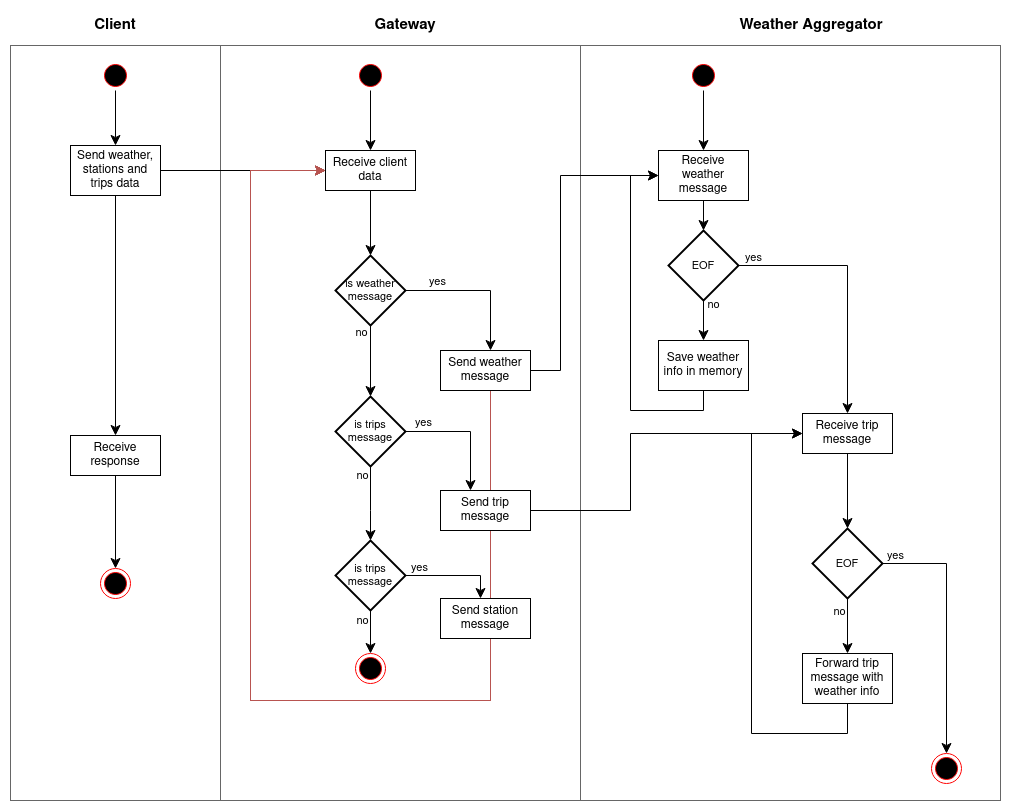
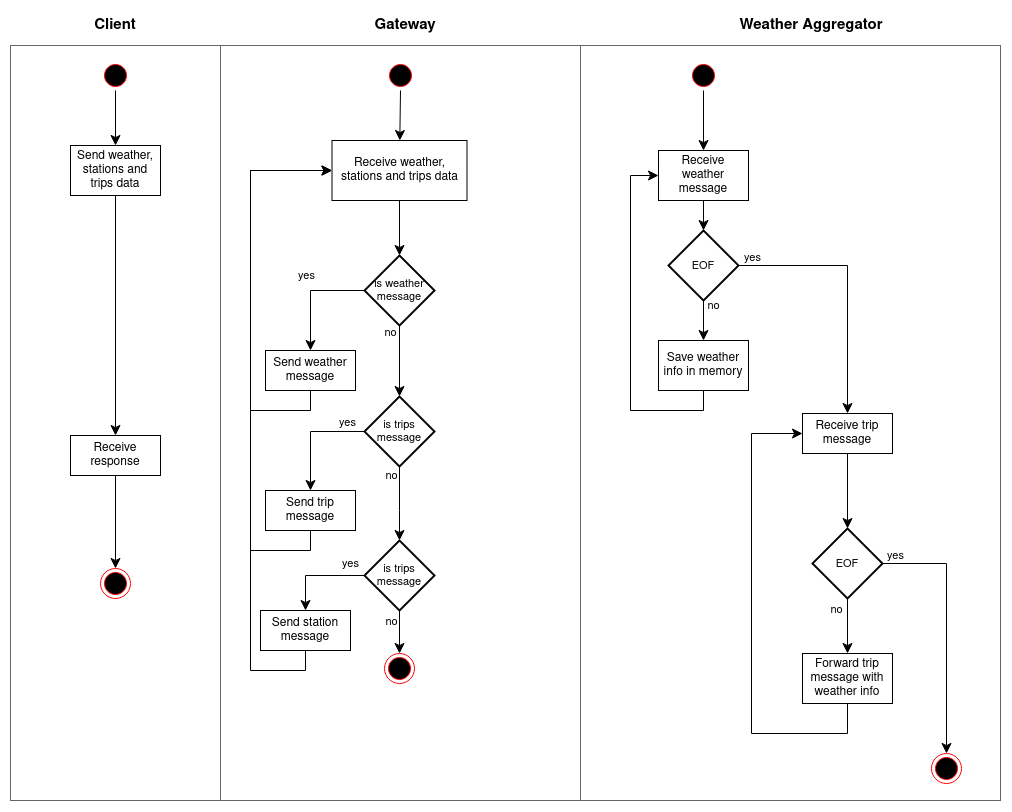
Change diagrams and architecture according to corrections

diff --git a/README.md b/README.md
@@ -3,17 +3,17 @@
 ## Tabla de contenidos
 
 * [Documentación](#documentación)
-  * [Scope](#scope)
-  * [Software Architecture](#software-architecture)
-  * [Architectural goals & Constraints](#architectural-goals-&-constraints)
-  * [Scenarios](#scenarios)
-  * [Logical View](#logical-view)
-    * [DAG](#dag)
-  * [Physical View](#physical-view)
-    * [Diagrama de robustez](#diagrama-de-robustez)
-    * [Diagrama de despliegue](#diagrama-de-despliegue)
-  * [Process View](#process-view)
-    * [Diagrama de actividad](#diagrama-de-actividad)
+    * [Scope](#scope)
+    * [Software Architecture](#software-architecture)
+    * [Architectural goals & Constraints](#architectural-goals-&-constraints)
+    * [Scenarios](#scenarios)
+    * [Logical View](#logical-view)
+        * [DAG](#dag)
+    * [Physical View](#physical-view)
+        * [Diagrama de robustez](#diagrama-de-robustez)
+        * [Diagrama de despliegue](#diagrama-de-despliegue)
+    * [Process View](#process-view)
+        * [Diagrama de actividad](#diagrama-de-actividad)
 
 ## Documentación
 
@@ -25,11 +25,11 @@ realizados con bicicletas de la red pública provista por grandes ciudades.
 Se deben generar los siguientes reportes:
 
 - La duración promedio de viajes que iniciaron en días con
-precipitaciones >30mm.
+  precipitaciones >30mm.
 - Los nombres de estaciones que al menos duplicaron la cantidad de
-viajes iniciados en ellas entre 2016 y el 2017.
+  viajes iniciados en ellas entre 2016 y el 2017.
 - Los nombres de estaciones de Montreal para la que el promedio de
-los ciclistas recorren más de 6km en llegar a ellas.
+  los ciclistas recorren más de 6km en llegar a ellas.
 
 ### Software Architecture
 
@@ -40,7 +40,7 @@ RabbitMQ.
 ### Architectural goals & Constraints
 
 - **Escalabilidad**: Se debe soportar el incremento de los elementos de cómputo para
-escalar los volúmenes de información a procesar.
+  escalar los volúmenes de información a procesar.
 - **Mantenibilidad**: La comunicación de grupos debe encapsularse en un middleware.
 
 ### Scenarios
@@ -60,8 +60,7 @@ DAG global del sistema.
 En el diagrama se puede observar la división de responsabilidades entre los distintos componentes
 del sistema. En primer lugar, el Gateway se encarga de distribuir la información recibida del cliente,
 entre los aggregators. Cada aggregator opera con una side table que contiene un pequeño conjunto de
-datos estáticos. Por ejemplo, `WA Weather Aggregator` contiene la información climática de
-Washington.
+datos estáticos.
 
 Para disminuir el tamaño de los mensajes que debe procesar RabbitMQ, el Gateway poda todos los
 campos que no son necesarios para calcular los reportes.
@@ -73,24 +72,31 @@ La información de las side tables se ingresa al sistema mediante un mecanismo d
 permitir que varias réplicas de los aggregators puedan construir sus side tables.
 Esto favorece la escalabilidad del sistema, a costa de duplicar la información en cada réplica.
 
-
 ### Physical View
 
 #### Diagrama de robustez
 
-![robustness_diagram](docs/robustness.png)
+![robustness_diagram_1](docs/robustness_1.png)
 
 Diagrama de robustez del sistema.
 
-Como se puede ver, tanto los aggregators, como los filtros y distance calculators, se pueden
-escalar horizontalmente.
-Los providers, por otro lado, realizan tareas que requieren información de un conjunto de datos
-de los viajes, por lo que consisten en una sola instancia. Por ejemplo, el `Avg Provider`, encargado
-de satisfacer el primer reporte, debe tener la información de todos los viajes de un determinado día,
-para poder calcular el promedio. Si se realizara un escalado de la misma forma que los otros
-componentes, existiría la posibilidad de que varias instancias calculen un promedio parcial, lo cual
-no es correcto.
+Como se puede ver, varias entidades del sistema pueden ser replicadas, para permitir un escalado
+horizontal.
 
+Algunas entidades poseen el estereotipo `<<City Affinity>>`. Esto quiere decir que, para dicha entidad,
+existirá un nodo por cada ciudad. Por ejemplo, se deben desplegar tres instancias de `Dist Mean Calculator`.
+
+Los aggregators, ademas de tener affinity con una ciudad, pueden replicarse. Por ejemplo, pueden desplegarse
+3 `Weather Aggregator` para Washington, y 2 `Weather Aggregator` para Montreal.
+
+![robustness_diagram_2](docs/robustness_2.png)
+
+Diagrama de robustez del servidor, con información de cada una de las queues.
+
+En el diagrama anterior se observa la forma en que se distribuyen los mensajes entre los distintos
+componentes del sistema. Además, se puede ver el mecanismo por el cual se dividen los mensajes en aquellos
+nodos que poseen `<<City Affinity>>`: el nombre de la queue inicia con el nombre de la ciudad, seguido de un
+guión bajo.
 
 #### Diagrama de despliegue
 
@@ -100,9 +106,8 @@ Diagrama de despliegue del sistema.
 
 Este diagrama pone en evidencia la fuerte dependencia que existe entre RabbitMQ (Message Queue) y
 los diferentes componentes del sistema.
-Para alivianar la carga del broker, el cliente y el Gateway se comunican directamente entre sí. 
+Para alivianar la carga del broker, el cliente y el Gateway se comunican directamente entre sí.
 Cada nodo puede desplegarse de manera independiente.
-
 
 ### Process View
 
@@ -119,18 +124,16 @@ El `Weather Aggregator` necesita la información climática para armar su side t
 procesar la información de los viajes hasta que no reciba todos los datos del clima.
 Lo mismo sucede con el `Station Aggregator`, que necesita la información de las estaciones.
 
-
 ![activity_diagram_2](docs/activity_2.png)
 
-Diagrama de actividad de la comunicación entre el `Station Aggregator`, `Prec Filter` y `Avg Provider`.
+Diagrama de actividad de la comunicación del `Station Aggregator` con el `Prec Filter` y `Distance Calculator`.
 
-En el diagrama se visualiza como se resuelve el primer reporte, desde el momento en que se termina de
-agregar la información de las estaciones y el clima.
+En el diagrama se visualiza cómo se comunica la información, desde el momento en que se termina de agregar
+la información de las estaciones y el clima, hasta que se envía al primer conjunto de filtros y calculators.
 
-Para los otros dos reportes, el mecanismo es muy similar: el aggregator envía la información del viaje a
-una entidad que se puede escalar (`Year Filter` o `Distance Calculator`), y ésta a su vez la envía al provider
-correspondiente (`Dist Mean Provider` o `TripsCount Provider`).
-
+Se ve que, tanto el `Prec Filter` como el `Distance Calculator`, pueden realizar su trabajo utilizando
+exclusivamente la información del paquete que acaban de recibir, por lo que el escalado de éstas entidades
+es muy sencillo.
 
 
 
